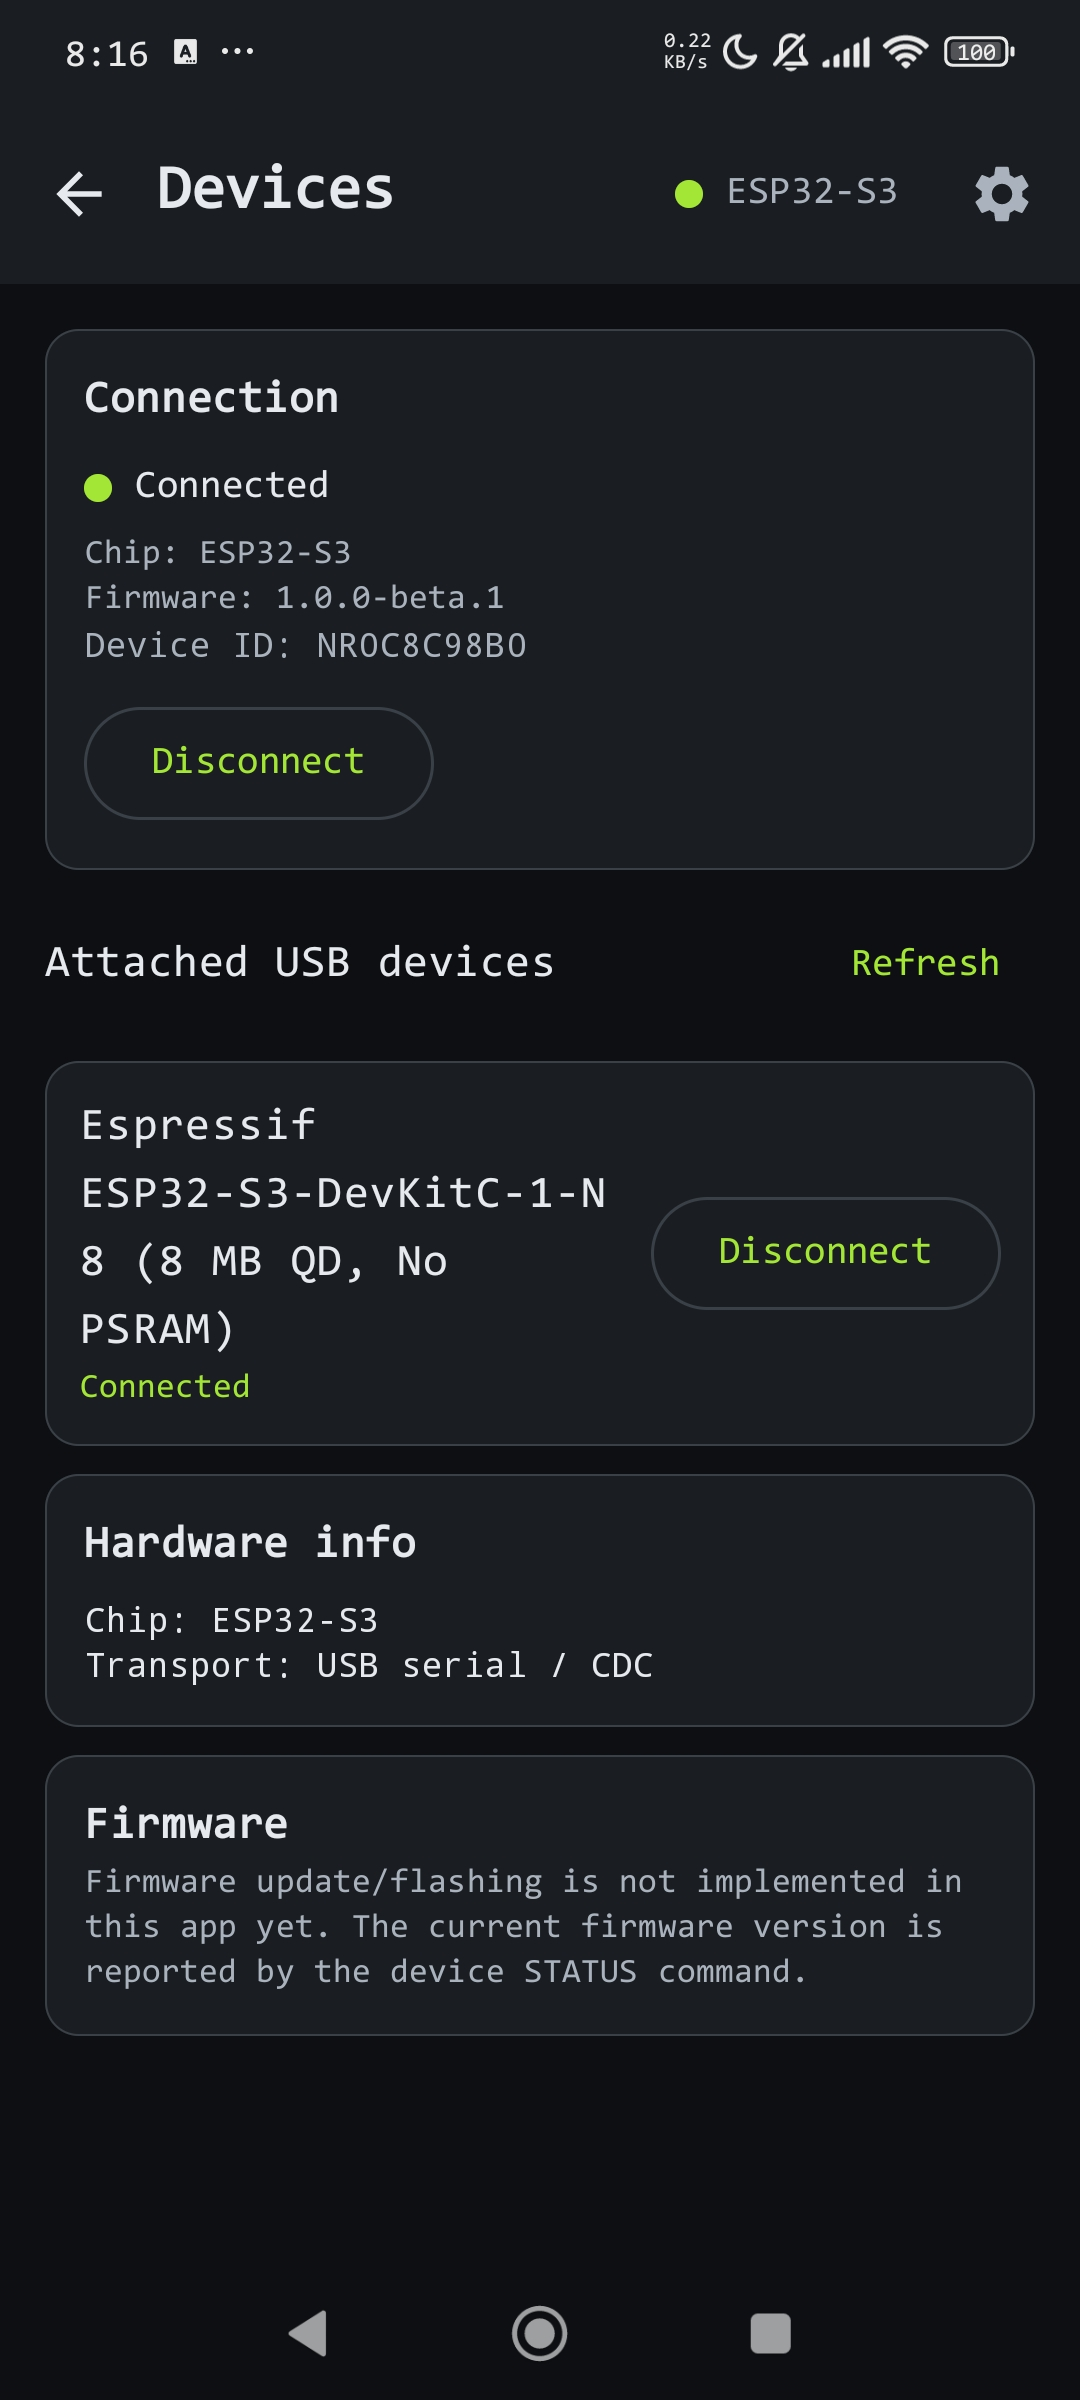
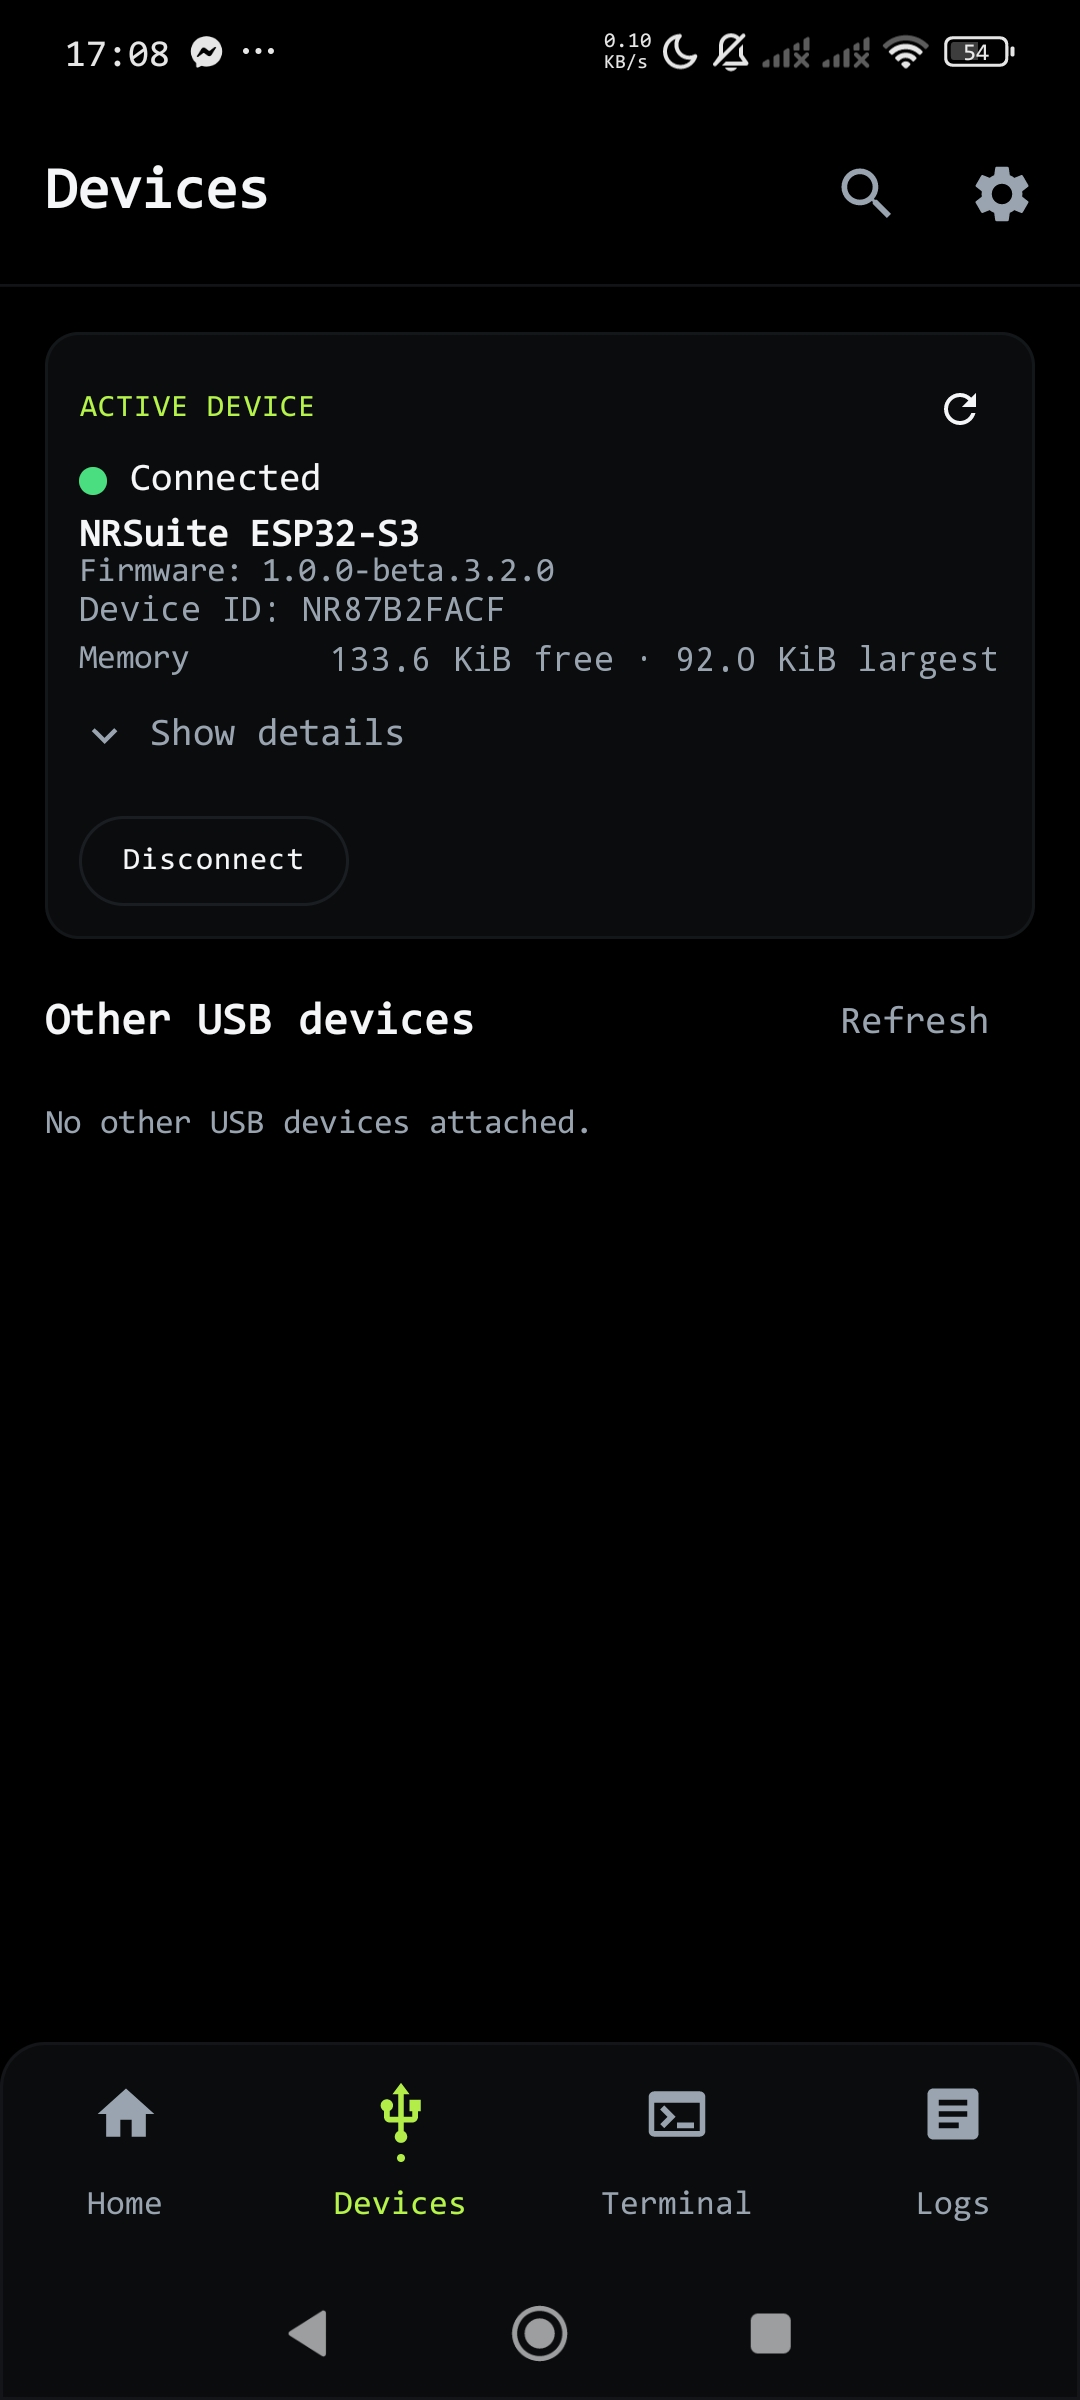
docs: refresh 3.2.0 screenshots and fix license detection

diff --git a/README.md b/README.md
@@ -63,6 +63,18 @@ Use `#support` for help, `#showcase` for builds, and `#github` for repo/code dis
 
 Categories below match the app's actual module grid and navigation.
 
+### Interface and themes
+
+NRSuite uses a refreshed, high-contrast field-instrument UI across Home, Devices,
+Terminal, Logs, the module catalog, settings, dialogs, cards, filters, and
+shared controls.
+
+Three switchable themes are available in **Settings → Appearance**:
+
+- **Obsidian** — near-black layered surfaces with a lime accent.
+- **Black** — true-black AMOLED surfaces for darker environments.
+- **Daylight** — high-contrast light surfaces for bright environments.
+
 ### Board Capability Matrix
 
 Not every ESP32 variant supports every capability. Check your board before relying on a feature:
@@ -182,6 +194,20 @@ Provision, monitor, and control the ESP-NOW mesh from its own module. The underl
 
 </details>
 
+<details open>
+<summary><strong>Terminal / Termux SSH</strong></summary>
+
+- [x] **Native SSH terminal** - local Termux OpenSSH connection at `127.0.0.1:8022`, forced `nrsuite` username for local connections, native terminal emulator, multiple shell tabs, PTY resize, scrollback, selection, and clipboard support
+- [x] **Ed25519 / RSA public-key authentication** - encrypted key import, JSch BouncyCastle Ed25519 support, key fingerprint display, public-key-only auth, and pinned host-key validation
+- [x] **Autoconnect and recovery** - one connection attempt per Terminal visit, setup/connecting status, manual disconnect behavior, and explicit force reconnect
+- [x] **Terminal settings** - 34 dp default font size, block cursor, 500 ms blink, pinch-to-zoom, keyboard toggle, and IME-aware extra-key rows
+- [x] **Terminal Shortcuts** - quick bottom sheet, search, category filters, run modes, Home pinning, confirmation, `{{parameter}}` forms with command previews, and built-in editable examples
+- [x] **Tab/session safety** - closing the last tab is disabled; Disconnect SSH is the explicit transport-close action
+- [x] **Terminal guide** - [Termux SSH setup, auth, shortcuts, and troubleshooting](docs/TERMINAL-GUIDE.md)
+- [ ] **Termux tools** - planned Nmap topology visualization, PCAP workflows, and optional Wireshark through Termux:X11
+
+</details>
+
 <details>
 <summary><strong>Storage</strong></summary>
 
@@ -195,6 +221,7 @@ Provision, monitor, and control the ESP-NOW mesh from its own module. The underl
 - [x] **Firmware Flasher** - flash merged NRSuite firmware directly from the app over USB; supports ESP32, S2, S3, C3, and C5 images with target-chip validation, esptool-aligned reset timing, C5 SYNC/SPI-attach handling, TinyUSB-to-ROM bootloader restart, automatic manual-recovery fallback, and background foreground-service progress notification
 - [x] **Serial Monitor** - raw USB serial monitor for any ESP32 or USB-UART firmware, with reliable clipboard copy, bounded log retention, and visible save/export feedback
 - [x] **Persistent firmware device ID** - `NRxxxxxxx` NVS ID shown in the app so devices remain identifiable across reconnects
+- [x] **Dual USB/UART transport reporting** - Native-USB-capable firmware reports `usb_cdc` or `uart0`; device specs and logs show which path is active
 
 </details>
 
@@ -293,8 +320,10 @@ See [docs/USAGE-GUIDE.md](docs/USAGE-GUIDE.md) for:
 - IR Config, IR Remotes, Receiver, Finder, and Jammer usage
 - Sensor Config and HLK-LD2450 UART wiring
 - BLE/USB essentials, troubleshooting, and safety notes
+- Termux SSH setup, key authentication, terminal defaults, shortcuts, and reconnect behavior
 
 The guide is intentionally general and is not tied to a single release version.
+See [docs/TERMINAL-GUIDE.md](docs/TERMINAL-GUIDE.md) for the dedicated terminal guide.
 
 ---
 
@@ -488,21 +517,33 @@ NRSuite uses a custom framing protocol (`FrameCodec` / `NrJson`) over USB serial
 
 ## Screenshots
 
-| Home | Modules | Logs |
+| Home | Devices | Logs |
 |---|---|---|
-| ![Home](screenshots/home.jpg) | ![Modules](screenshots/module-catalog.jpg) | ![Logs](screenshots/logs-screen.jpg) |
+| ![Home](screenshots/home.jpg) | ![Devices](screenshots/device-manager.jpg) | ![Logs](screenshots/logs-screen.jpg) |
 
-| Device Manager | WiFi Scan | Packet Sniffer |
+| Terminal | Terminal Shortcuts | Terminal Settings |
 |---|---|---|
-| ![Device Manager](screenshots/device-manager.jpg) | ![WiFi Scan](screenshots/wifi-scan.jpg) | ![Packet Sniffer](screenshots/packet-sniffer.jpg) |
+| ![Terminal](screenshots/terminal.jpg) | ![Terminal shortcuts](screenshots/terminal-shortcuts.jpg) | ![Terminal settings](screenshots/terminal-settings.jpg) |
 
-| Deauth Detector | Rogue AP Detector | BLE Scanner |
+| WiFi Recon | WiFi Attack | WiFi Defense |
 |---|---|---|
-| ![Deauth Detector](screenshots/deauth-detector.jpg) | ![Rogue AP Detector](screenshots/rogue-ap.jpg) | ![BLE Scanner](screenshots/ble-scanner.jpg) |
+| ![WiFi recon](screenshots/wifi-recon.jpg) | ![WiFi attack](screenshots/wifi-attack.jpg) | ![WiFi defense](screenshots/wifi-defense.jpg) |
 
-| BadUSB | Credential Manager | Firmware Flasher |
+| BLE | Sensors | Tools |
 |---|---|---|
-| ![BadUSB](screenshots/badusb.jpg) | ![Credential Manager](screenshots/credential-manager.jpg) | ![Firmware Flasher](screenshots/firmware-flasher.jpg) |
+| ![BLE modules](screenshots/ble-category.jpg) | ![Sensors](screenshots/sensors-category.jpg) | ![Tools](screenshots/tools-category.jpg) |
+
+| Credentials | HID | IR |
+|---|---|---|
+| ![Credentials](screenshots/credentials-category.jpg) | ![HID](screenshots/hid-category.jpg) | ![IR](screenshots/ir-category.jpg) |
+
+| Firmware | Storage | Settings |
+|---|---|---|
+| ![Firmware modules](screenshots/firmware-category.jpg) | ![Storage](screenshots/storage.jpg) | ![Settings](screenshots/settings.jpg) |
+
+| Themes | Firmware Flasher | Multi-device |
+|---|---|---|
+| ![Themes](screenshots/settings-appearance.jpg) | ![Firmware flasher](screenshots/firmware-flasher.jpg) | ![Multi-device](screenshots/home-multi-device.jpg) |
 
 More screenshots in [./screenshots/](./screenshots/).
 
@@ -543,7 +584,7 @@ See [CONTRIBUTING.md](./CONTRIBUTING.md) for the full guide: branching model, PR
 
 | App version | Firmware version | Protocol spec |
 |---|---|---|
-| v1.0.0-beta.3.1.1 | v1.0.0-beta.3.1.1 | v1.0 (non-mesh); mesh protocol 1.1 is experimental |
+| v1.0.0-beta.3.2.0 | v1.0.0-beta.3.2.0 | v1.0 / proto_minor 2 (non-mesh); mesh protocol 1.1 is experimental |
 
 This table is updated with each release. Always check compatibility before mixing app and firmware versions.
 

diff --git a/screenshots/README.md b/screenshots/README.md
@@ -2,53 +2,53 @@
 
 Full screenshot gallery for the NRSuite Android app. For the main project page, see [../README.md](../README.md).
 
+Screenshots are from NRSuite `1.0.0-beta.3.2.0`.
+
 ## Core
 
-| Home | Modules | Logs |
+| Home | Devices | Logs |
 |---|---|---|
-| ![Home](home.jpg) | ![Modules](module-catalog.jpg) | ![Logs](logs-screen.jpg) |
+| ![Home](home.jpg) | ![Devices](device-manager.jpg) | ![Logs](logs-screen.jpg) |
 
-| Device Manager | WiFi Scan | Packet Sniffer |
+| Multi-device Home | Device Update | Settings |
 |---|---|---|
-| ![Device Manager](device-manager.jpg) | ![WiFi Scan](wifi-scan.jpg) | ![Packet Sniffer](packet-sniffer.jpg) |
+| ![Multi-device home](home-multi-device.jpg) | ![Device update](device-manager-update.jpg) | ![Settings](settings.jpg) |
+
+## Terminal
+
+| Terminal | Terminal Shortcuts | Terminal Settings |
+|---|---|---|
+| ![Terminal](terminal.jpg) | ![Terminal shortcuts](terminal-shortcuts.jpg) | ![Terminal settings](terminal-settings.jpg) |
+
+| Shortcut Editor | Manage Shortcuts |
+|---|---|
+| ![Shortcut editor](terminal-shortcut-editor.jpg) | ![Manage shortcuts](terminal-shortcut-manager.jpg) |
 
 ## Wireless
 
-| Hidden AP Revealer | Beacon | Deauth |
+| WiFi Recon | WiFi Attack | WiFi Defense |
 |---|---|---|
-| ![Hidden AP Revealer](hidden-ap.jpg) | ![Beacon](beacon.jpg) | ![Deauth](deauth.jpg) |
+| ![WiFi recon](wifi-recon.jpg) | ![WiFi attack](wifi-attack.jpg) | ![WiFi defense](wifi-defense.jpg) |
 
-| Captive Portal | Evil Twin | Deauth Detector |
+## Module Categories
+
+| BLE | Sensors | Mesh |
 |---|---|---|
-| ![Captive Portal](captive-portal.jpg) | ![Evil Twin](evil-twin.jpg) | ![Deauth Detector](deauth-detector.jpg) |
+| ![BLE modules](ble-category.jpg) | ![Sensors](sensors-category.jpg) | ![Mesh](mesh-category.jpg) |
 
-| Rogue AP Detector | Client Detector | BLE Scanner |
+| Tools | Credentials | HID |
 |---|---|---|
-| ![Rogue AP Detector](rogue-ap.jpg) | ![Client Detector](client-detector.jpg) | ![BLE Scanner](ble-scanner.jpg) |
+| ![Tools](tools-category.jpg) | ![Credentials](credentials-category.jpg) | ![HID](hid-category.jpg) |
 
-## BLE
-
-| BLE GATT Profile | Tracker Detector | MAC Lookup |
+| Storage | Firmware | IR |
 |---|---|---|
-| ![BLE GATT Profile](ble-gatt.jpg) | ![Tracker Detector](tracker-detector.jpg) | ![MAC Lookup](mac-lookup.jpg) |
+| ![Storage](storage.jpg) | ![Firmware modules](firmware-category.jpg) | ![IR](ir-category.jpg) |
 
-## Tools and Credentials
+## Appearance and Flashing
 
-| Credential Manager | WPA Cracker | Ducky Editor |
-|---|---|---|
-| ![Credential Manager](credential-manager.jpg) | ![WPA Cracker](wpa-cracker.jpg) | ![Ducky Editor](ducky-editor.jpg) |
-
-## HID and Storage
-
-| BadUSB | BLE HID | Mass Storage |
-|---|---|---|
-| ![BadUSB](badusb.jpg) | ![BLE HID](ble-hid.jpg) | ![Mass Storage](storage.jpg) |
-
-## Firmware and Settings
-
-| Firmware Flasher | Serial Monitor | Settings |
-|---|---|---|
-| ![Firmware Flasher](firmware-flasher.jpg) | ![Serial Monitor](serial-monitor.jpg) | ![Settings](settings.jpg) |
+| Themes | Firmware Flasher |
+|---|---|
+| ![Themes](settings-appearance.jpg) | ![Firmware Flasher](firmware-flasher.jpg) |
 
 ## Hardware
 
